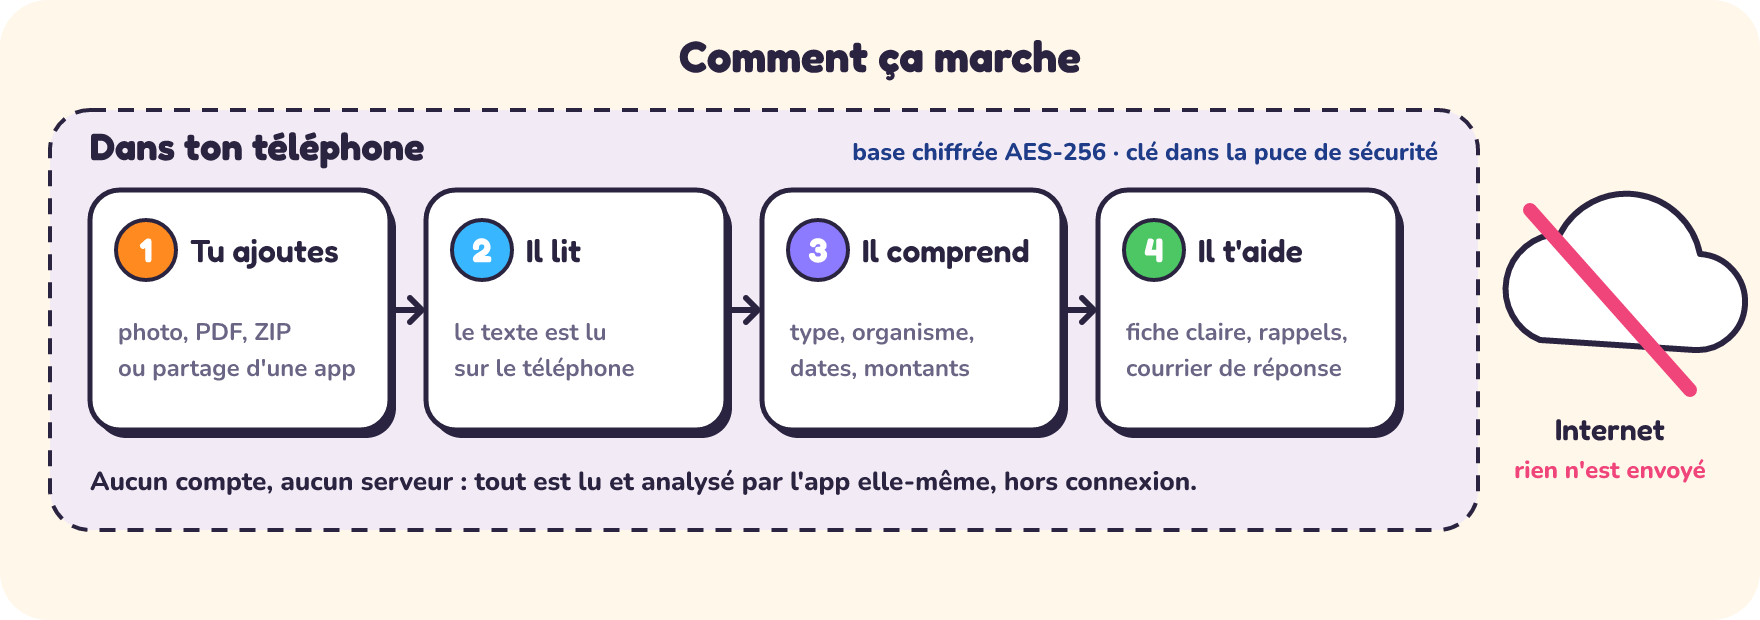
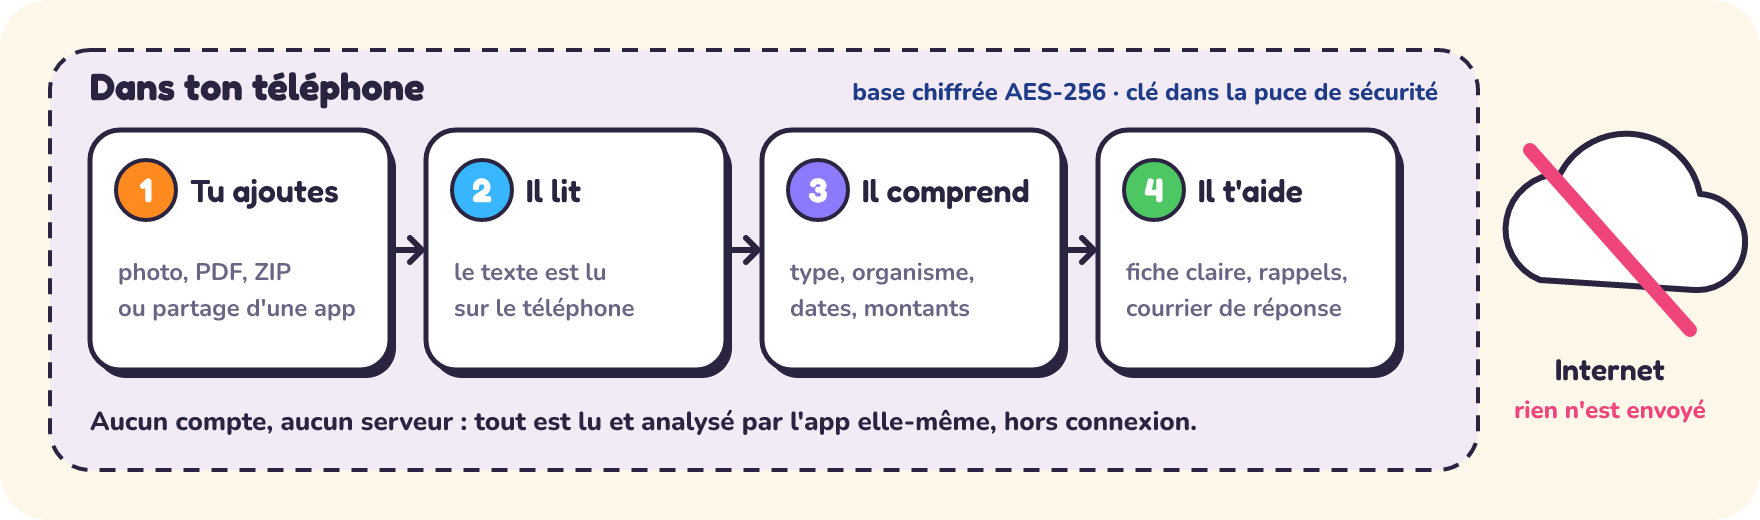
README : en-têtes du tableau de sécurité, schéma allégé

diff --git a/README.md b/README.md
@@ -80,7 +80,7 @@ Le texte est lu sur l'appareil, puis le moteur de Paperasse (écrit pour ça, en
   <img src="docs/images/proteger.png" alt="Écrans : réglages de sécurité, détecteur d'arnaques, droits du locataire" width="100%">
 </p>
 
-| | |
+| Protection | Ce que ça fait |
 |---|---|
 | **Coffre chiffré** | La base des papiers est chiffrée (SQLCipher, AES-256). La clé reste dans la puce de sécurité du téléphone. |
 | **Code secret** | Demandé à l'ouverture et après une minute sans utiliser l'app. Attente croissante après plusieurs erreurs. |
